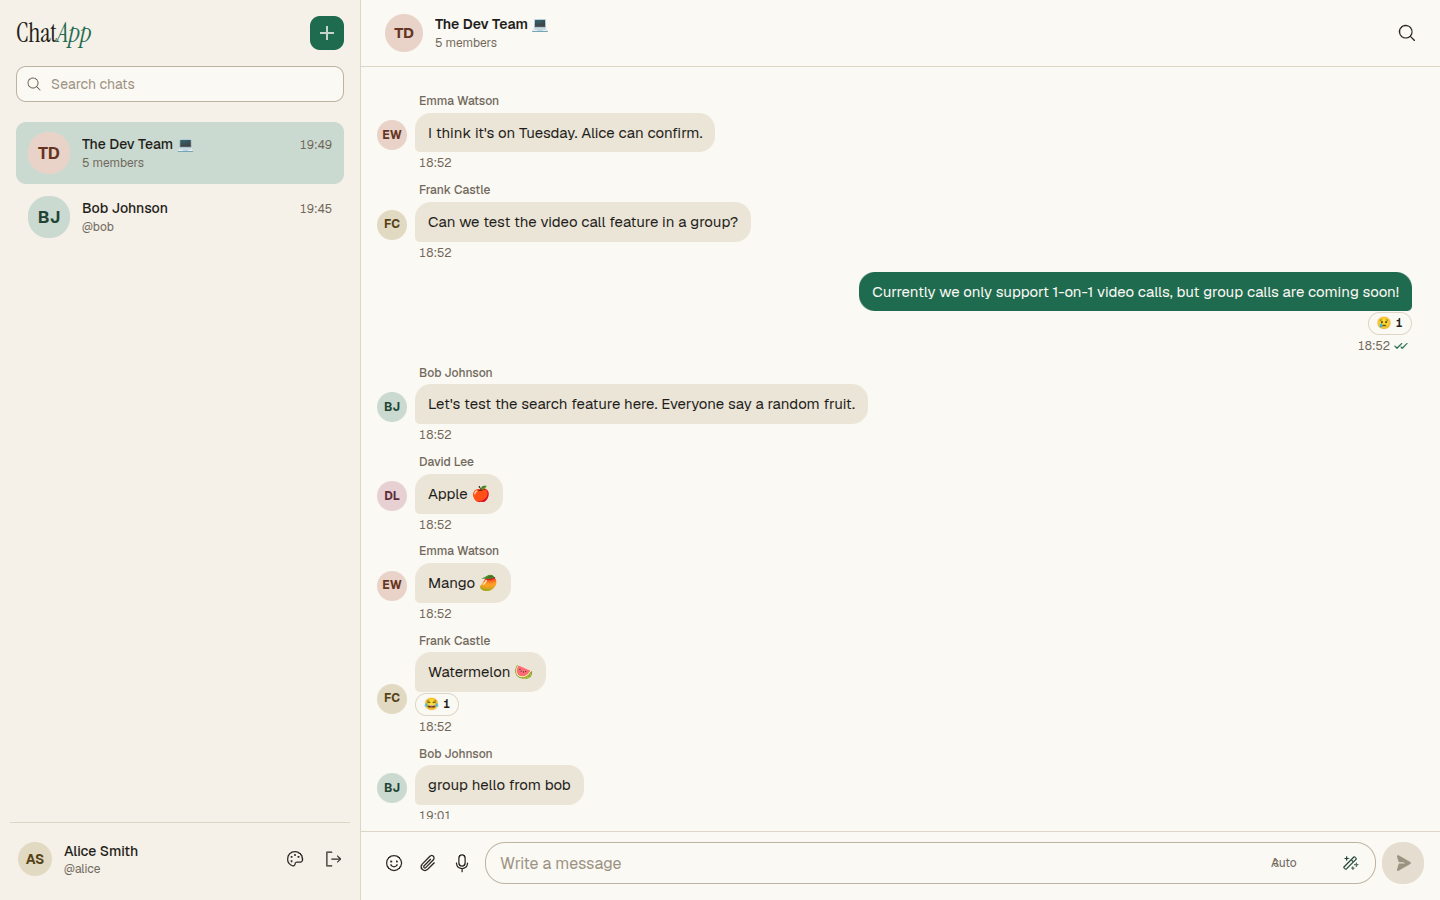
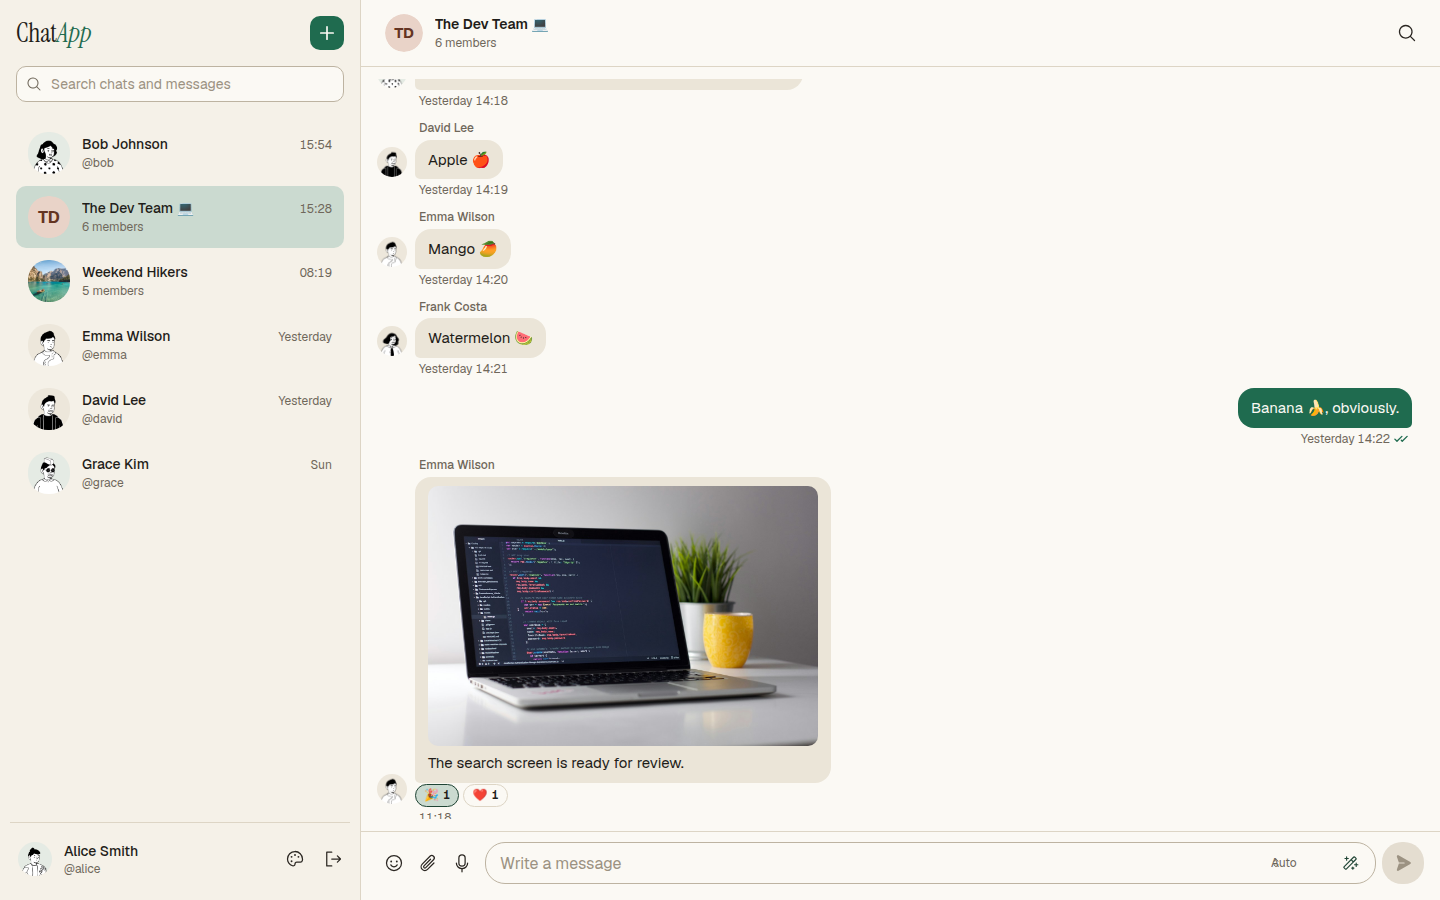
docs: security page and more screenshots; polish the landing page
- SECURITY.md says what is and isn't protected and how to report a bug
- README gets new screenshots (media, dark mode, phone) from the demo data
- Landing preview shows a time under every message, with the read ticks
  under the sent one, and uses Bob's avatar
- Landing footer links to the API reference; the tech stack line is gone
- Message tools float above the bubble on narrow windows, so the chat no
  longer scrolls sideways
- Meta description mentions end-to-end encryption

diff --git a/frontend/src/components/ChatPreview.tsx b/frontend/src/components/ChatPreview.tsx
@@ -4,10 +4,12 @@ import { ChecksIcon } from "@phosphor-icons/react";
 
 // A static, read-only copy of the chat window for the landing page
 const lines = [
-    { from: "them", text: "Did the deploy go through?" },
-    { from: "me", text: "Yes. Frontend is on Vercel, backend on Render." },
-    { from: "them", text: "Nice. Call in 5?" },
+    { from: "them", text: "Did the deploy go through?", time: "10:41" },
+    { from: "me", text: "Yes. Frontend is on Vercel, backend on Render.", time: "10:42" },
+    { from: "them", text: "Nice. Call in 5?", time: "10:42" },
 ];
+
+const BOB_AVATAR = "https://res.cloudinary.com/dhagorcpe/image/upload/w_96,f_auto/MERN-ChatApp/demo/av-bob.png";
 
 const ChatPreview = () => {
     const reduce = useReducedMotion();
@@ -15,7 +17,7 @@ const ChatPreview = () => {
     return (
         <div className="preview" aria-hidden="true">
             <div className="preview-head">
-                <span className="preview-avatar">BO</span>
+                <img className="preview-avatar" src={BOB_AVATAR} alt="" width={36} height={36} />
                 <div>
                     <strong>Bob</strong>
                     <small>Online</small>
@@ -25,18 +27,21 @@ const ChatPreview = () => {
                 {lines.map((line, i) => (
                     <m.div
                         key={i}
-                        className={`bubble ${line.from === "me" ? "bubble-me" : "bubble-them"}`}
-                        style={{ alignSelf: line.from === "me" ? "flex-end" : "flex-start" }}
+                        className="preview-line"
+                        data-from={line.from}
                         initial={reduce ? false : { opacity: 0, y: 8 }}
                         animate={{ opacity: 1, y: 0 }}
                         transition={{ type: "spring", bounce: 0, duration: 0.4, delay: 0.5 + i * 0.35 }}
                     >
-                        {line.text}
+                        <div className={`bubble ${line.from === "me" ? "bubble-me" : "bubble-them"}`}>
+                            {line.text}
+                        </div>
+                        <span className="preview-meta tabular">
+                            {line.time}
+                            {line.from === "me" && <ChecksIcon size={14} weight="bold" />}
+                        </span>
                     </m.div>
                 ))}
-                <span className="preview-meta tabular">
-                    10:42 <ChecksIcon size={14} weight="bold" />
-                </span>
                 <m.span
                     className="preview-typing"
                     initial={reduce ? false : { opacity: 0 }}

diff --git a/frontend/src/pages/Landing.tsx b/frontend/src/pages/Landing.tsx
@@ -1,7 +1,7 @@
 import { useState, useEffect } from "react";
 import { Button, Group, Loader } from "@mantine/core";
 import { Link } from "react-router";
-import { GithubLogoIcon } from "@phosphor-icons/react";
+import { BookOpenTextIcon, GithubLogoIcon } from "@phosphor-icons/react";
 import { useReducedMotion, type MotionProps } from "motion/react";
 import * as m from "motion/react-m";
 import ThemeToggle from "../components/ThemeToggle";
@@ -129,22 +129,20 @@ const Landing = () => {
                         ))}
                     </ol>
                 </section>
-
-                <section className="landing-stack">
-                    <p>
-                        Built with React 19, Mantine, Zustand and Vite on the front. Express, Socket.io and
-                        MongoDB on the back. Frontend on Vercel, backend on Render.
-                    </p>
-                </section>
             </main>
 
             <footer className="landing-footer">
                 <span className="wordmark small">
                     Chat<em>App</em>
                 </span>
-                <a className="nav-link" href={REPO_URL} target="_blank" rel="noopener noreferrer">
-                    <GithubLogoIcon size={16} /> Source on GitHub
-                </a>
+                <nav className="footer-links" aria-label="More">
+                    <a className="nav-link" href="/docs/">
+                        <BookOpenTextIcon size={16} /> API reference
+                    </a>
+                    <a className="nav-link" href={REPO_URL} target="_blank" rel="noopener noreferrer">
+                        <GithubLogoIcon size={16} /> Source on GitHub
+                    </a>
+                </nav>
             </footer>
         </div>
     );

diff --git a/frontend/src/pages/Landing.css b/frontend/src/pages/Landing.css
@@ -131,8 +131,7 @@
     display: grid;
     place-items: center;
     background: var(--bubble-them);
-    font-size: 13px;
-    font-weight: 600;
+    object-fit: cover;
 }
 
 .preview-body {
@@ -143,19 +142,30 @@
     min-height: 290px;
 }
 
-.preview-body .bubble {
+.preview-line {
+    display: flex;
+    flex-direction: column;
+    align-items: flex-start;
+    gap: 3px;
     max-width: 78%;
+}
+
+.preview-line[data-from="me"] {
+    align-self: flex-end;
+    align-items: flex-end;
+}
+
+.preview-body .bubble {
     font-size: 14px;
 }
 
 .preview-meta {
-    align-self: flex-end;
     display: inline-flex;
     align-items: center;
     gap: 4px;
+    padding: 0 4px;
     font-size: 11px;
     color: var(--muted);
-    margin-top: -4px;
 }
 
 .preview-meta svg {
@@ -231,24 +241,19 @@
     line-height: 1.5;
 }
 
-.landing-stack {
-    padding: 0 0 88px 308px;
-}
-
-.landing-stack p {
-    margin: 0;
-    max-width: 38em;
-    font-family: "Instrument Serif", Georgia, serif;
-    font-size: 26px;
-    line-height: 1.3;
-}
-
 .landing-footer {
     display: flex;
     justify-content: space-between;
     align-items: center;
     padding: 24px 0 32px;
     border-top: 1px solid var(--line);
+}
+
+.footer-links {
+    display: flex;
+    flex-wrap: wrap;
+    justify-content: flex-end;
+    gap: 8px 24px;
 }
 
 @media (max-width: 860px) {
@@ -273,14 +278,6 @@
 
     .features li span {
         grid-column: 2;
-    }
-
-    .landing-stack {
-        padding-left: 0;
-    }
-
-    .landing-stack p {
-        font-size: 22px;
     }
 }
 

diff --git a/frontend/index.html b/frontend/index.html
@@ -8,9 +8,9 @@
     <meta name="viewport" content="width=device-width, initial-scale=1.0" />
     <meta name="theme-color" content="#f5f1e8" media="(prefers-color-scheme: light)" />
     <meta name="theme-color" content="#171512" media="(prefers-color-scheme: dark)" />
-    <meta name="description" content="Real-time chat with groups, voice notes and WebRTC video calls. Messages are encrypted with AES-256 at rest." />
+    <meta name="description" content="Real-time chat with end-to-end encrypted messages, groups, voice notes and WebRTC video calls." />
     <meta property="og:title" content="ChatApp" />
-    <meta property="og:description" content="Real-time chat with groups, voice notes and WebRTC video calls." />
+    <meta property="og:description" content="Real-time chat with end-to-end encrypted messages, groups, voice notes and WebRTC video calls." />
     <meta property="og:type" content="website" />
     <title>ChatApp</title>
   </head>

diff --git a/frontend/src/index.css b/frontend/src/index.css
@@ -251,7 +251,10 @@ p {
     .message-row:focus-within .message-tools {
         pointer-events: auto;
     }
+}
 
+/* Narrow windows have no room beside the bubble either */
+@media (hover: none), (max-width: 480px) {
     .bubble-line .message-tools {
         top: auto;
         bottom: calc(100% + 4px);

diff --git a/SECURITY.md b/SECURITY.md
@@ -1,0 +1,41 @@
+# Security
+
+ChatApp is a personal project, not an audited product. This page says what it protects, what it doesn't, and how to report a problem.
+
+## Reporting a problem
+
+Please don't open a public issue for a security bug.
+
+- Use **[Report a vulnerability](https://github.com/Sarcastic-Soul/ChatApp/security/advisories/new)** on GitHub. It opens a private report only the maintainer can see.
+- Say what you found, how to reproduce it and what an attacker could do with it.
+
+The live demo at [chatapp-e2e.vercel.app](https://chatapp-e2e.vercel.app/) is fine to test against with your own accounts. Please don't flood it, and don't touch other people's accounts.
+
+## What is protected
+
+| Data | Protection | Who can read it |
+| --- | --- | --- |
+| Messages in a chat where every member has a key | End-to-end: AES-GCM-256 in the browser, chat key sealed per member with ECDH P-256 | Only the members |
+| Messages in a chat where someone has no key yet, call logs, group notices | AES-256-CBC before saving | The server, and members when they ask |
+| Private keys | Kept in the browser as non-extractable keys. The server holds a backup encrypted with a key made from the passphrase (PBKDF2-SHA256, 600,000 rounds) | Only someone with the passphrase |
+| Passwords | bcrypt hashes | Nobody |
+| Login | JWT in an `httpOnly` cookie | Not readable by page scripts |
+| Search | Keyed hashes of words, not the words | The server sees which messages share a word, not which word |
+
+## What is not protected
+
+| Gap | Detail |
+| --- | --- |
+| Media | Images, videos and voice notes are stored on Cloudinary unencrypted. Anyone with the link can open them |
+| Metadata | The server sees who talks to whom and when, reactions, and edit and read states |
+| No key checking | There are no safety numbers. A server that handed out a fake public key could read new messages |
+| Weak passphrases | Someone with the database can guess them offline. PBKDF2 only slows that down |
+| Magic reply | Sends recent messages to Groq as plain text. It asks first in encrypted chats |
+| The demo account | `alice` and her passphrase are public. Don't put anything private there |
+
+The full design is in [docs/how-it-works.md](docs/how-it-works.md#end-to-end-encryption).
+
+## Secrets
+
+- Secrets live in environment variables and are never committed. See [Environment variables](README.md#environment-variables).
+- An early commit in this repo's history contains an old `.env` file. Every value in it has been replaced, so it no longer opens anything.

diff --git a/README.md b/README.md
@@ -34,6 +34,19 @@
   <img alt="ChatApp group chat" src="./screenshots/chat_ss.png">
 </p>
 
+<table>
+  <tr>
+    <td width="40%"><img alt="A chat with a photo, a video and an audio clip" src="./screenshots/media.png"></td>
+    <td width="40%"><img alt="A group chat in dark mode" src="./screenshots/dark.png"></td>
+    <td width="20%"><img alt="A group chat on a phone" src="./screenshots/mobile.png"></td>
+  </tr>
+  <tr>
+    <td align="center">Photos, video and audio</td>
+    <td align="center">Dark mode</td>
+    <td align="center">On a phone</td>
+  </tr>
+</table>
+
 ## Try it
 
 Open the [live app](https://chatapp-e2e.vercel.app/) and press **Try the demo account**, or log in by hand:
@@ -402,6 +415,10 @@ Everything deploys from `main`.
 | Keep-alive | GitHub Actions | `keep-alive.yml` pings `/healthz` every 10 minutes |
 
 Settings, variables and caveats are in [docs/deployment.md](docs/deployment.md).
+
+## Security
+
+What is and isn't protected, and how to report a problem, is in [SECURITY.md](SECURITY.md).
 
 ## License
 
